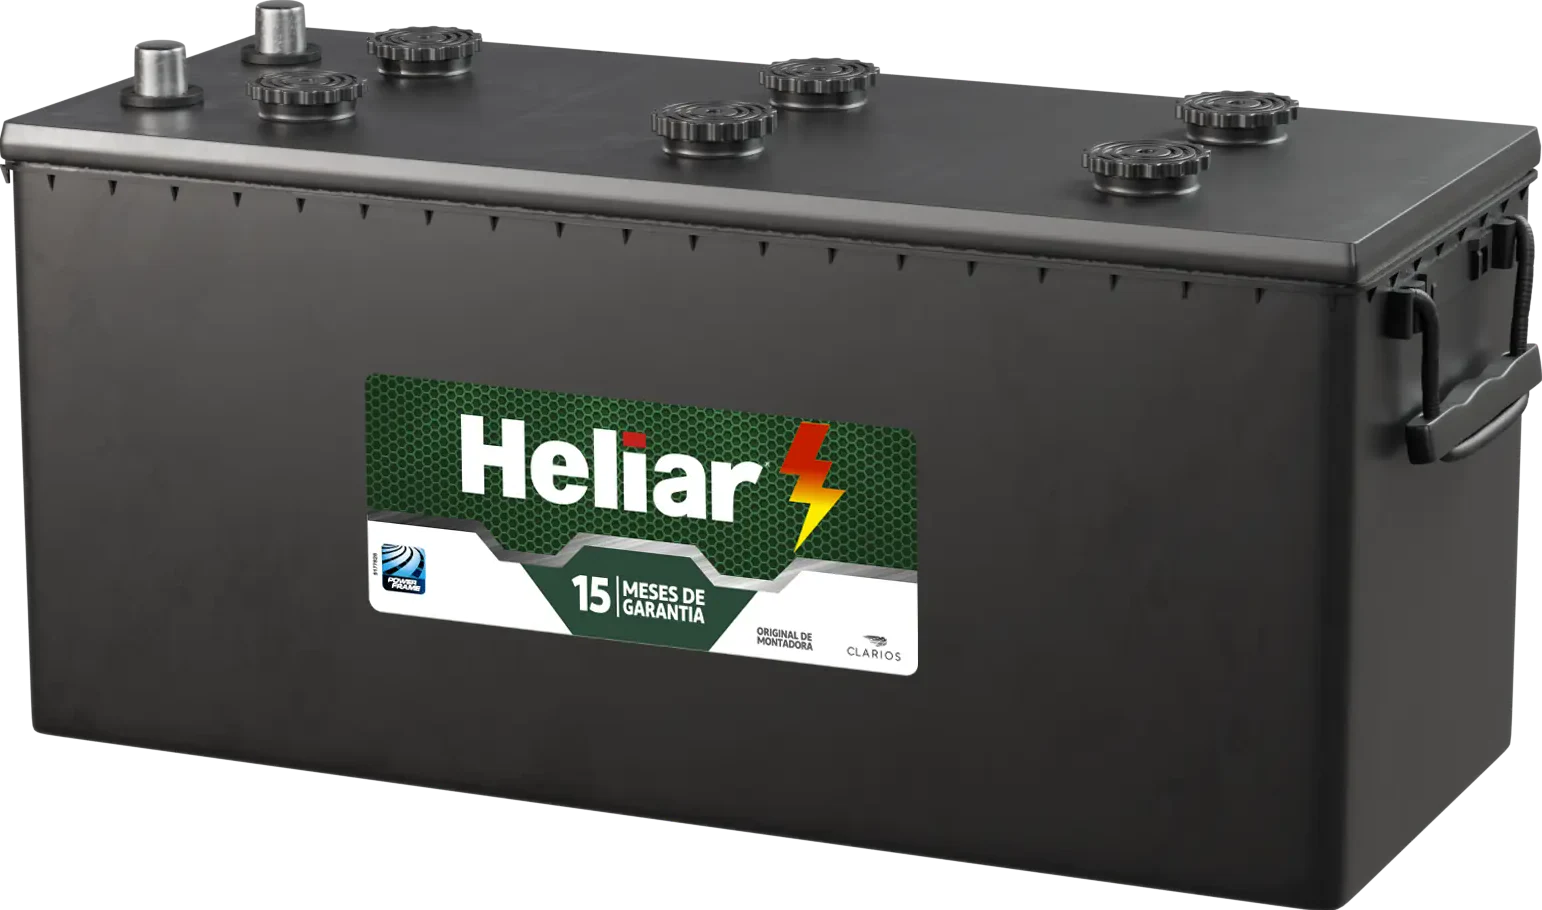
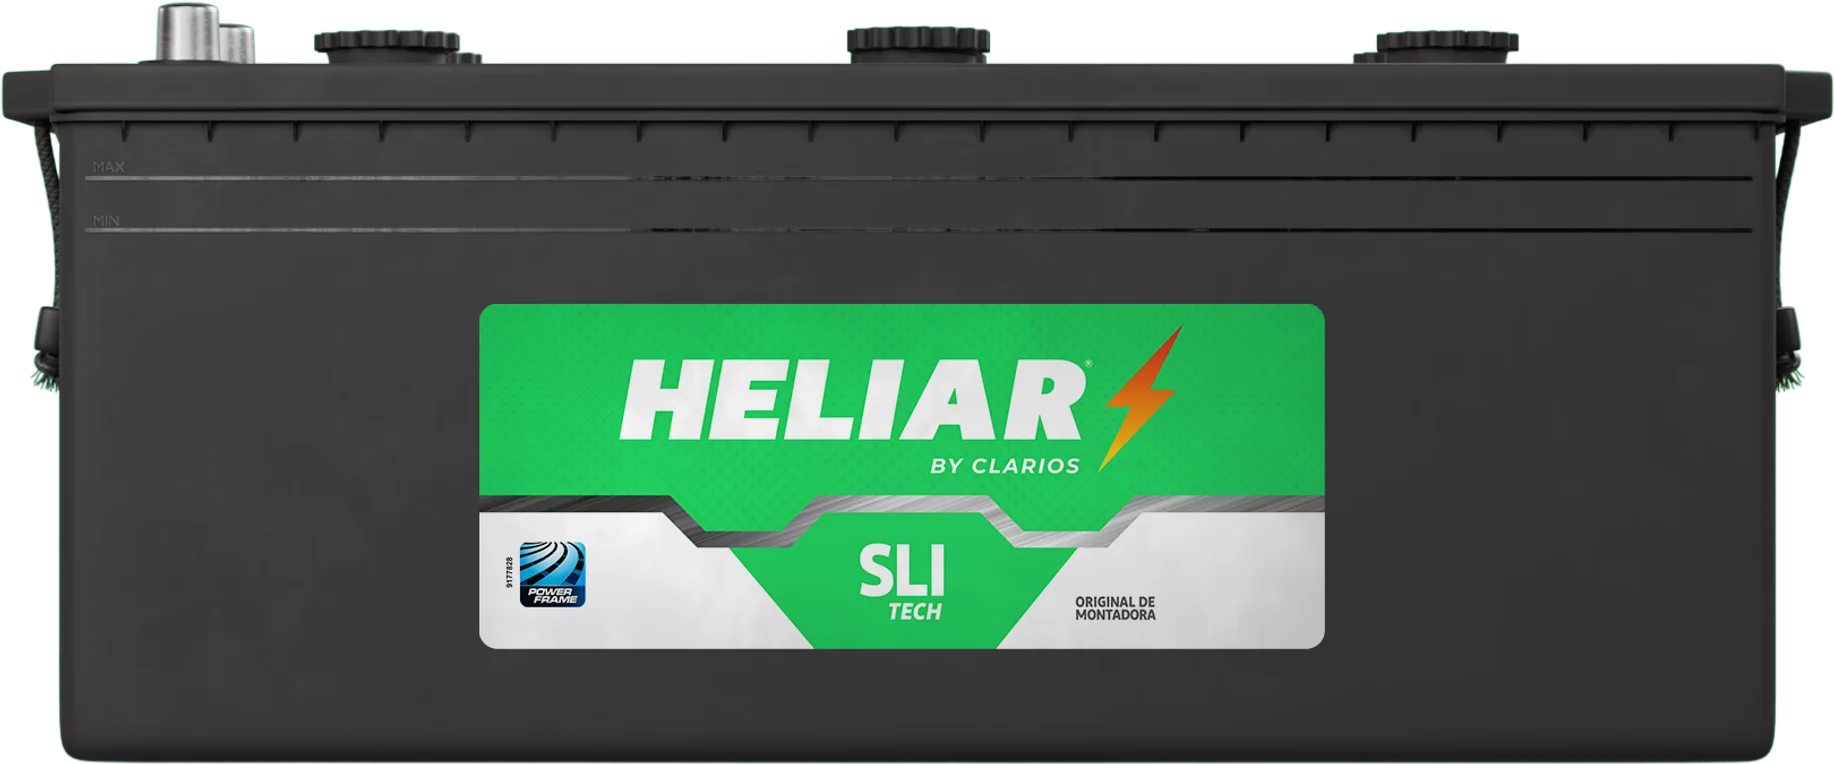
Heliar: fotos novas com o adesivo atual e imagens oficiais de frota
- 14 modelos SLI e Frota com as fotos novas (adesivo atual), em
  cards e páginas, mantendo o tamanho relativo entre as baterias
- HEFB230TD/TE com a foto EFB da Heliar e fonte na página oficial
- H180TD e HS180TD com a imagem de frota do site da Heliar
- Cards das HEFB230TD/TE voltam a ter imagem
- Descrição da categoria Heliar passa a citar até 230 Ah

diff --git a/app/catalog-meta.ts b/app/catalog-meta.ts
@@ -14,26 +14,26 @@ export const PRODUCT_IMAGES: Record<string, string> = {
   "freedom-df3000": "/freedom-df3000.webp",
   "freedom-df4100": "/freedom-df4100.webp",
   "heliar-h40jd": "/Imagens%20baterias/Heliar/Webp/H40JD%20-%20superior.webp",
-  "heliar-h40jd-jis": "/Imagens%20baterias/Heliar/Faltantes/Antigas/webp/H40JD%20JIS%20-%20antiga%20H40FD.webp",
-  "heliar-hefb230td": "/Imagens%20baterias/Heliar/Faltantes/Antigas/EFB/webp/HEFB225TD%20-%20antiga%20HEFB225TD.webp",
-  "heliar-hefb230te": "/Imagens%20baterias/Heliar/Faltantes/Antigas/EFB/webp/HEFB225TE%20-%20antiga%20HEFB225TE.webp",
+  "heliar-h40jd-jis": "/heliar-modelos/heliar-h40jd-jis.webp",
+  "heliar-hefb230td": "/heliar-modelos/heliar-hefb230td.webp",
+  "heliar-hefb230te": "/heliar-modelos/heliar-hefb230te.webp",
   "heliar-hagm70pd": "/Imagens%20baterias/Heliar/Faltantes/Genericas/webp/HAGM%20-%20perspectiva%20.webp",
   "heliar-hagm80kd": "/Imagens%20baterias/Heliar/Faltantes/Genericas/webp/HAGM%20-%20perspectiva%20.webp",
   "heliar-hagm95md": "/Imagens%20baterias/Heliar/Faltantes/Genericas/webp/HAGM%20-%20perspectiva%20.webp",
   "heliar-hagm105sd": "/Imagens%20baterias/Heliar/Faltantes/Genericas/webp/HAGM%20-%20perspectiva%20.webp",
   "heliar-he48bd": "/Imagens%20baterias/Heliar/Faltantes/Genericas/webp/HE%20-%2060%20-%20perspectiva.webp",
-  "heliar-he45be": "/Imagens%20baterias/Heliar/Faltantes/SLI/Superior/Webp/HE45BE%20-%20superior.webp",
+  "heliar-he45be": "/heliar-modelos/heliar-he45be.webp",
   "heliar-he50gd": "/Imagens%20baterias/Heliar/Webp/HE50GD%20-%20perspectiva.webp",
   "heliar-he60dd": "/Imagens%20baterias/Heliar/Faltantes/Genericas/webp/HE%20-%2060%20-%20perspectiva.webp",
   "heliar-he60de": "/Imagens%20baterias/Heliar/Webp/HE60DE%20-%20perspectiva.webp",
   "heliar-he60hd": "/Imagens%20baterias/Heliar/Webp/HE60HD%20-%20perspectiva.webp",
-  "heliar-h45je": "/Imagens%20baterias/Heliar/Faltantes/Antigas/webp/H45JE%20-%20antiga%20H45JE.webp",
-  "heliar-h50jd": "/Imagens%20baterias/Heliar/Faltantes/Antigas/webp/H50JD%20-%20antiga%20H45JE.webp",
-  "heliar-h65hd": "/Imagens%20baterias/Heliar/Webp/H65HD%20-%20perspectiva.webp",
-  "heliar-h70nd": "/Imagens%20baterias/Heliar/Webp/H70ND%20-%20lateral.webp",
+  "heliar-h45je": "/heliar-modelos/heliar-h45je.webp",
+  "heliar-h50jd": "/heliar-modelos/heliar-h50jd.webp",
+  "heliar-h65hd": "/heliar-modelos/heliar-h65hd.webp",
+  "heliar-h70nd": "/heliar-modelos/heliar-h70nd.webp",
   "heliar-h70ne": "/Imagens%20baterias/Heliar/Webp/H70NE%20-%20perspectiva.webp",
-  "heliar-h75pd": "/Imagens%20baterias/Heliar/Faltantes/Genericas/webp/H%20-%2065%20ou%20maior%20-%20frontal%20branca.webp",
-  "heliar-h75ld": "/Imagens%20baterias/Heliar/Faltantes/Genericas/webp/H%20-%2065%20ou%20maior%20-%20frontal%20branca.webp",
+  "heliar-h75pd": "/heliar-modelos/heliar-h75pd.webp",
+  "heliar-h75ld": "/heliar-modelos/heliar-h75ld.webp",
   "heliar-h75le": "/Imagens%20baterias/Heliar/Faltantes/Genericas/webp/H%20-%2065%20ou%20maior%20-%20frontal%20branca.webp",
   "heliar-h90ld": "/Imagens%20baterias/Heliar/Webp/H90LD%20-%20perspectiva.webp",
   "heliar-h90le": "/Imagens%20baterias/Heliar/Webp/H90LE%20-%20perspectiva.webp",
@@ -42,14 +42,14 @@ export const PRODUCT_IMAGES: Record<string, string> = {
   "heliar-hefb60hd": "/Imagens%20baterias/Heliar/Webp/HEFB60HD%20-%20perspectiva.webp",
   "heliar-hefb72pd": "/Imagens%20baterias/Heliar/Webp/HEFB72PD%20-%20perspectiva.webp",
   "heliar-h95md": "/Imagens%20baterias/Heliar/Webp/H95MD%20-%20perspectiva.webp",
-  "heliar-h100le": "/Imagens%20baterias/Heliar/Faltantes/Antigas/Frota/webp/H100LE%20-%20antiga%20H100LE.webp",
-  "heliar-hs100le": "/Imagens%20baterias/Heliar/Faltantes/Antigas/Frota/webp/HS100LE%20-%20antiga%20HS100LE.webp",
-  "heliar-h150td": "/Imagens%20baterias/Heliar/Faltantes/Antigas/Frota/webp/H150TD%20-%20antiga%20H150TD.webp",
-  "heliar-hs150td": "/Imagens%20baterias/Heliar/Faltantes/Antigas/Frota/webp/HS150TD%20-%20antiga%20HS150TD.webp",
-  "heliar-h180td": "/Imagens%20baterias/Heliar/Faltantes/Antigas/Frota/webp/H180TD%20-%20antiga%20H180TD.webp",
-  "heliar-hs180td": "/Imagens%20baterias/Heliar/Faltantes/Antigas/Frota/webp/HS180TD%20-%20antiga%20HS150TD.webp",
-  "heliar-hs180te": "/Imagens%20baterias/Heliar/Faltantes/Antigas/Frota/webp/HS180TE%20-%20antiga%20HT180TE.webp",
-  "heliar-ht180te": "/Imagens%20baterias/Heliar/Faltantes/Antigas/Frota/webp/HT180TE%20-%20antiga%20HT180TE.webp",
+  "heliar-h100le": "/heliar-modelos/heliar-h100le.webp",
+  "heliar-hs100le": "/heliar-modelos/heliar-hs100le.webp",
+  "heliar-h150td": "/heliar-modelos/heliar-h150td.webp",
+  "heliar-hs150td": "/heliar-modelos/heliar-hs150td.webp",
+  "heliar-h180td": "/heliar-modelos/heliar-h180td.webp",
+  "heliar-hs180td": "/heliar-modelos/heliar-hs180td.webp",
+  "heliar-hs180te": "/heliar-modelos/heliar-hs180te.webp",
+  "heliar-ht180te": "/heliar-modelos/heliar-ht180te.webp",
   "econ-egm60hd-24": "/Imagens%20baterias/eCON/webp/EGM60HD-24.webp",
   "econ-egm70pd-24": "/Imagens%20baterias/eCON/webp/EGM70PD-24.webp",
   "econ-egm80kd-24": "/Imagens%20baterias/eCON/webp/EGM80KD-24.webp",
@@ -208,7 +208,7 @@ export const CATEGORY_SEO: Record<string, { title: string; description: string }
   "heliar-baterias-de-motos": { title: "Baterias para motos", description: "Baterias para motocicletas com atendimento especializado da Sol Distribuidora para revendas." },
   "bluetti-estacoes-de-energia": { title: "Estações de energia e painéis solares BLUETTI", description: "Estações de energia portáteis BLUETTI de 320 a 3.014 Wh e painéis solares de 60 a 350 W, para backup, mobilidade e uso fora da rede. Distribuição B2B Sol." },
   "freedom-baterias-estacionarias": { title: "Baterias estacionárias Freedom 12 V", description: "Linha Freedom de baterias estacionárias ventiladas 12 V, de 26 a 220 Ah (C20), para nobreak, telecom e energia solar. Fichas técnicas e atendimento B2B." },
-  "heliar-baterias-automotivas": { title: "Baterias automotivas Heliar SLI, EFB, AGM e Frota", description: "Baterias Heliar SLI, EFB, AGM e Frota, de 40 a 225 Ah, para carros, start-stop e veículos pesados. Distribuição para revendas com a Sol Distribuidora." },
+  "heliar-baterias-automotivas": { title: "Baterias automotivas Heliar SLI, EFB, AGM e Frota", description: "Baterias Heliar SLI, EFB, AGM e Frota, de 40 a 230 Ah, para carros, start-stop e veículos pesados. Distribuição para revendas com a Sol Distribuidora." },
   "econ-baterias-automotivas": { title: "Baterias automotivas eCON", description: "Baterias automotivas eCON nas linhas Convencional, EFB, AGM e Frota, de 45 a 180 Ah. Distribuição para revendas e frotas com a Sol Distribuidora." },
   "econ-vrla-baterias-estacionarias": { title: "Baterias VRLA AGM eCON 12 V", description: "Baterias VRLA AGM seladas eCON 12 V de 5 a 18 Ah para nobreak, alarme, telecom e iluminação de emergência, com tabelas de descarga e catálogo técnico." },
 };

diff --git a/app/product-specs.ts b/app/product-specs.ts
@@ -454,7 +454,10 @@ export const PRODUCT_SPECS: Record<string, ProductSpec> = {
                              "dimensions":  "517 x 275 x 236 mm",
                              "weight":  "57,4 kg",
                              "warranty":  "15 meses",
-                             "sourceNote": "Fonte: catálogo Baterias Heliar da Sol Distribuidora, Linha Automotiva EFB Tech, p. 13 (outubro de 2026).",
+                             "sourceNote": "Fontes: página oficial da Heliar (C20, CCA, dimensões e garantia) e catálogo Baterias Heliar da Sol Distribuidora, p. 13 (reserva de capacidade e peso), outubro de 2026.",
+                             "sourceLinks": [
+                               { "label": "Heliar — página do modelo HEFB230TD", "href": "https://www.heliar.com/produtos/detalhes-do-produto/hefb230td---230-ah-bateria-heliar-efb---garantia-15-meses" }
+                             ],
                              "description":  "A Heliar HEFB230TD é uma bateria EFB de 12 V e 230 Ah (C20) para veículos comerciais pesados compatíveis. Entrega 1.050 A de CCA a −18 °C e 450 minutos de reserva de capacidade, com dimensões de 517 × 275 × 236 mm e peso de 57,4 kg. Confirme montagem e requisitos do veículo pelo código completo antes da substituição."
                          },
     "Heliar|HEFB230TE":  {
@@ -466,7 +469,10 @@ export const PRODUCT_SPECS: Record<string, ProductSpec> = {
                              "dimensions":  "517 x 275 x 236 mm",
                              "weight":  "56 kg",
                              "warranty":  "15 meses",
-                             "sourceNote": "Fonte: catálogo Baterias Heliar da Sol Distribuidora, Linha Automotiva EFB Tech, p. 13 (outubro de 2026).",
+                             "sourceNote": "Fontes: página oficial da Heliar (C20, CCA, dimensões e garantia) e catálogo Baterias Heliar da Sol Distribuidora, p. 13 (reserva de capacidade e peso), outubro de 2026.",
+                             "sourceLinks": [
+                               { "label": "Heliar — página do modelo HEFB230TE", "href": "https://www.heliar.com/produtos/detalhes-do-produto/hefb230te---230-ah-bateria-heliar-efb---garantia-15-meses" }
+                             ],
                              "description":  "A Heliar HEFB230TE é uma bateria EFB de 12 V e 230 Ah (C20) para veículos comerciais pesados compatíveis. Entrega 1.050 A de CCA a −18 °C e 450 minutos de reserva de capacidade, com dimensões de 517 × 275 × 236 mm e peso de 56 kg. Confirme montagem e requisitos do veículo pelo código completo antes da substituição."
                          },
     "Heliar|H38JD":  {
